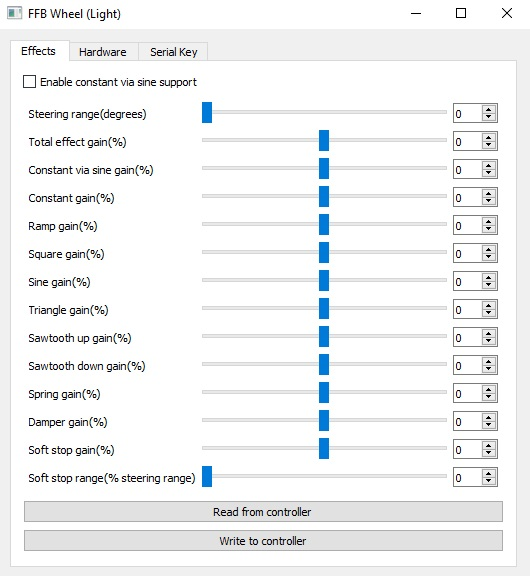
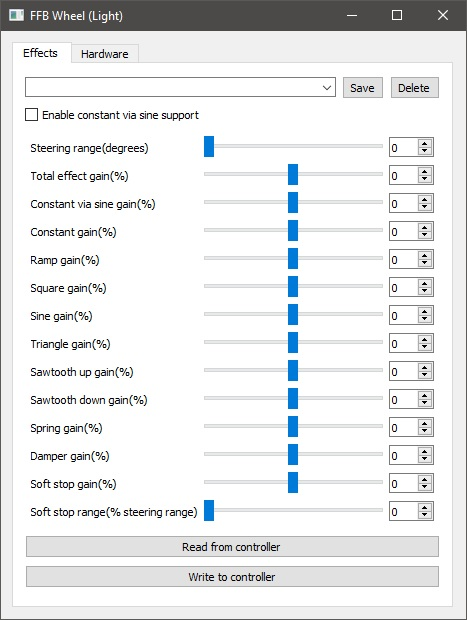
Documentation updated

Changed region(s): [[0.0, 0.0, 1.0, 1.0]]

diff --git a/README.md b/README.md
@@ -17,6 +17,10 @@ https://forum.simracing.su/topic/4400-dd-rul-iz-hoverborda-ya-sdelal-eto/
 Connection diagram (Note the button. It is optional, but helpfull. It's functionality to reset center position of the wheel. In normal operation position in which wheel was connected to power sourse considered as the center, but if you need to reset it - just press the button)
 ![scheme](screen/scheme.jpg)
 
+Some notes about braking resistor. The idea is to choose resistor and then adjust Braking resistor limit on hardware tab. I sucesfully used 2R and 10R resistors.
+First you connect resistor and start with 1% of Braking resistor limit. Then start increasing it by 1 tick and experiment - you need to stop at the point when PSU stops to go into overvoltage protection mode.
+For example for my PSU (15v 13A) it works with value 5% for 2R resistor and 10% for 10R resistor
+
 ## Mechanical part
 
 More details on mechanical [here](/hardware/)
@@ -44,6 +48,8 @@ Effects
 
 ![effect](screen/guieffects.jpg)
 
+* Dropdown with saved profiles. To add new profile just type name of profile and clic save. 
+
 * Enable constant via sine - Enables support for effects similar to Raceroom (it sends effects in different form from other games). So far I've only met in one game. For everything except the Raceroom keep it unchecked.
 * Steering range - I think without question.
 * Everything with the addition of word 'gain' is the adjustment of the strength of individual effects. Everything that is plus turns in one direction, everything that is minus turns in the other. Damper is not implemented at the moment, Total is the total effort scale that is applied to everything at once. If you need to invert all effects, just invert Total.
@@ -62,7 +68,12 @@ Hardware
 * Output power - total power as a percentage of the physically possible. Start low and increase a little at a time until the motor stays stable and doesn't overheat.
 * Braking resistor limit - power that can be dissipated by praking resistor as a percentage of the physically possible. Start low and increase a little at a time until the PSU stop to go into overvoltage protection during quick wheel rotation.
 
-Buttons 
+Buttons tab
+
+As firmware supports connection of Thrustmaster wheels, and different whells have some buttons constantly pressed you can check which button state to ignore.
+
+
+General buttons mapping 
 * read what is written in the controller 
 * write to the controller.
 
